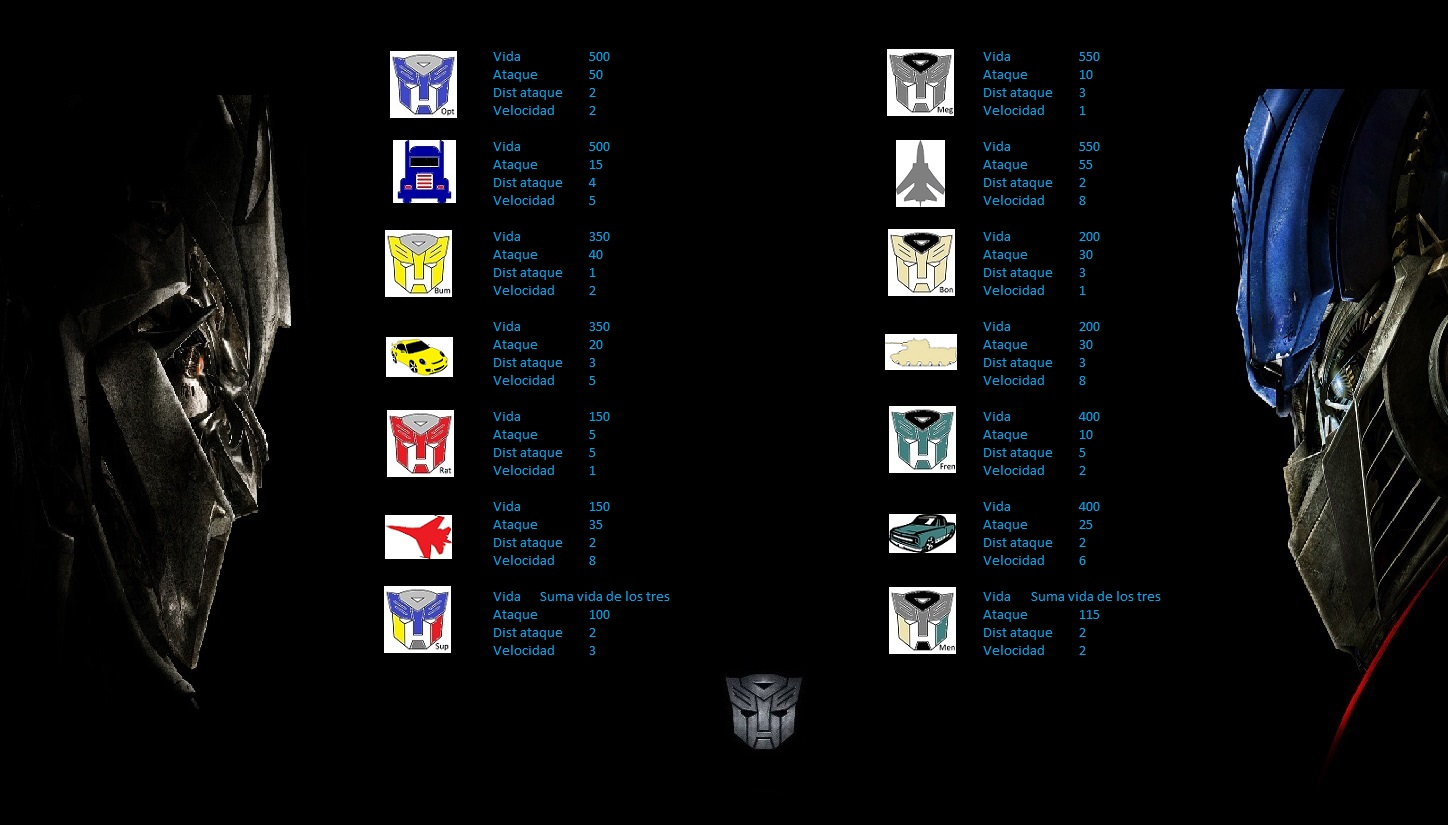
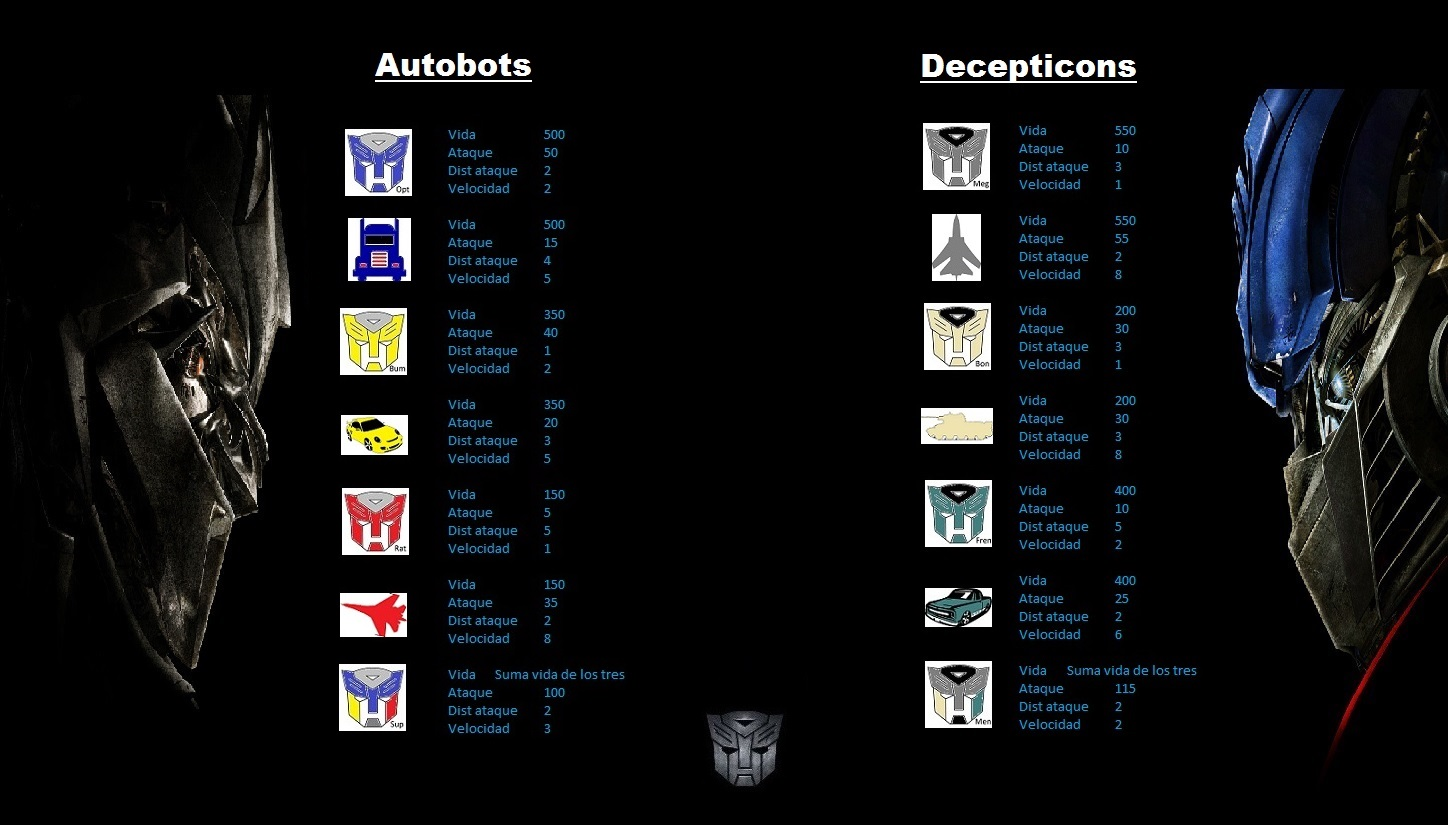
Cambiada foto BotonMasInfoEventHandler
Mostraba la misma que BotonReglas

diff --git a/src/fiuba/algo3/algoformers/vista/eventos/BotonMasInfoEventHandler.java b/src/fiuba/algo3/algoformers/vista/eventos/BotonMasInfoEventHandler.java
@@ -33,7 +33,7 @@ public class BotonMasInfoEventHandler implements EventHandler<ActionEvent> {
 		eventHandlerSalir.handle(event);
 		Stage stage= new Stage();
 		VBox root = new VBox();
-		Image imagen = new Image("file:src/fiuba/algo3/algoformers/vista/imagenes/intro/ImagenReglas.jpg");
+		Image imagen = new Image("file:src/fiuba/algo3/algoformers/vista/imagenes/intro/ImagenReglas2.jpg");
         BackgroundImage imagenDeFondo = new BackgroundImage(imagen, BackgroundRepeat.NO_REPEAT, BackgroundRepeat.NO_REPEAT, BackgroundPosition.CENTER, BackgroundSize.DEFAULT);
         Button volverAlJuego = new Button("Volver al juego");
         BotonVolverAlJuegoEventHandler salir = new BotonVolverAlJuegoEventHandler(stage,stagePrincipal);
